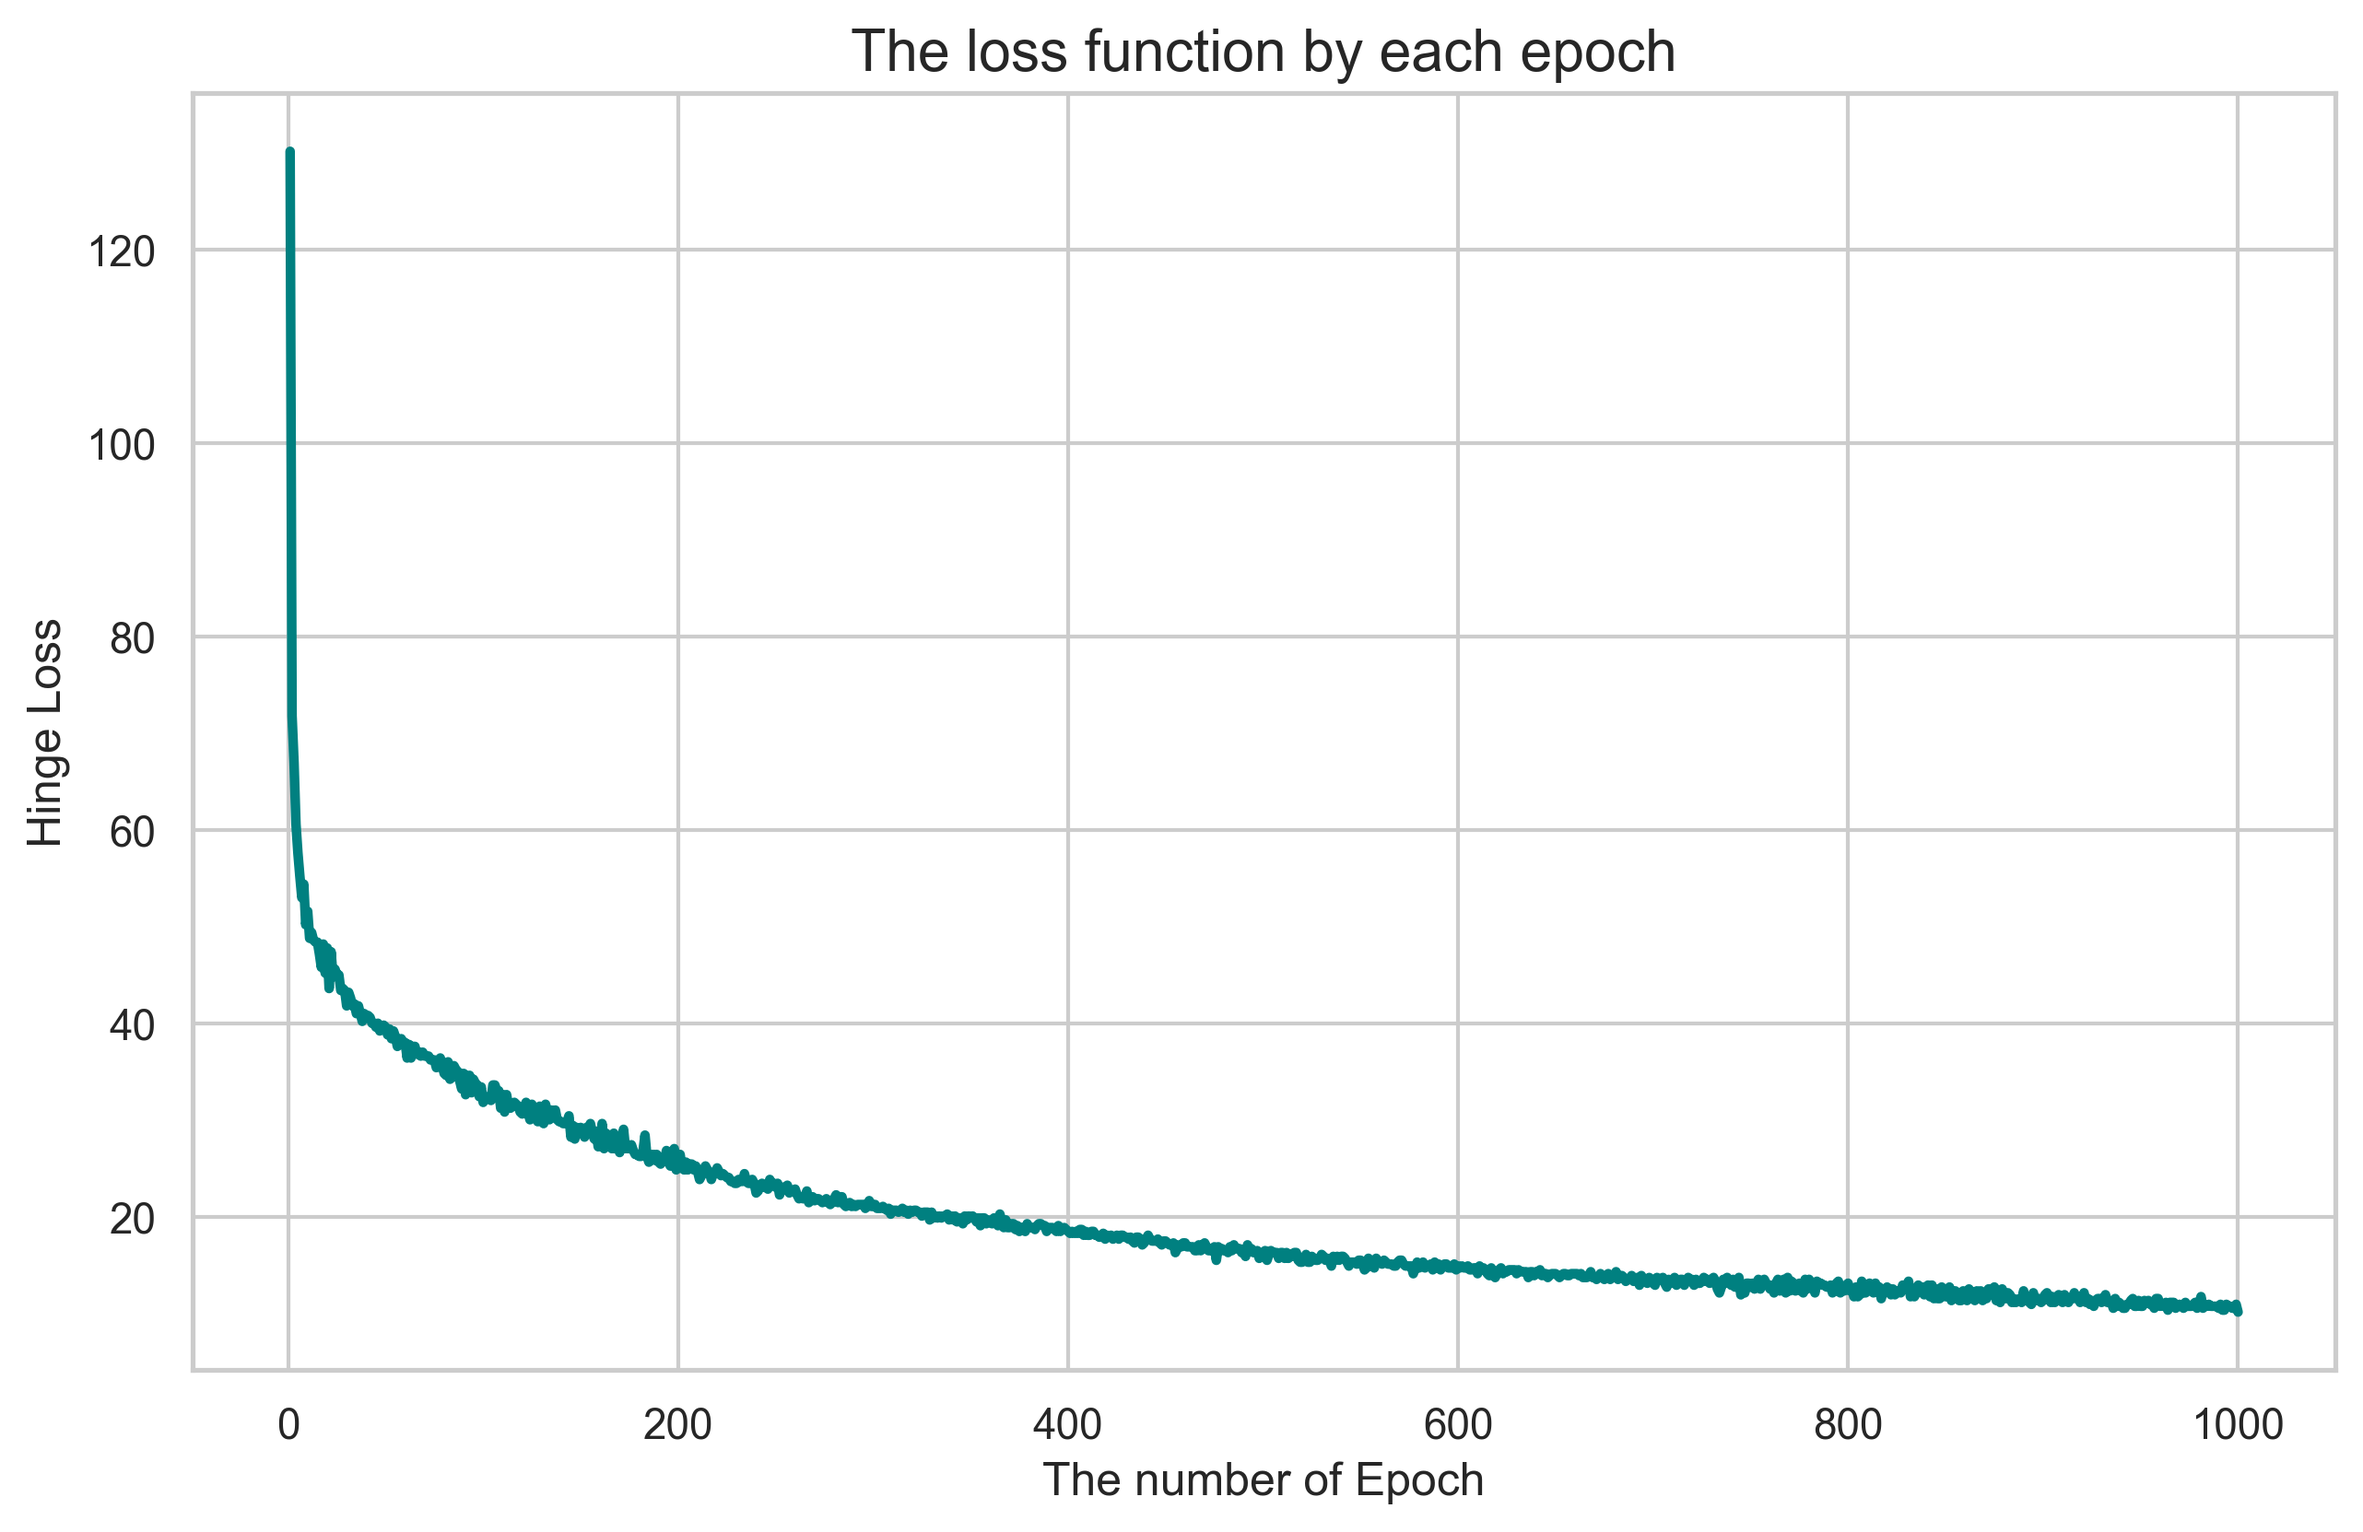
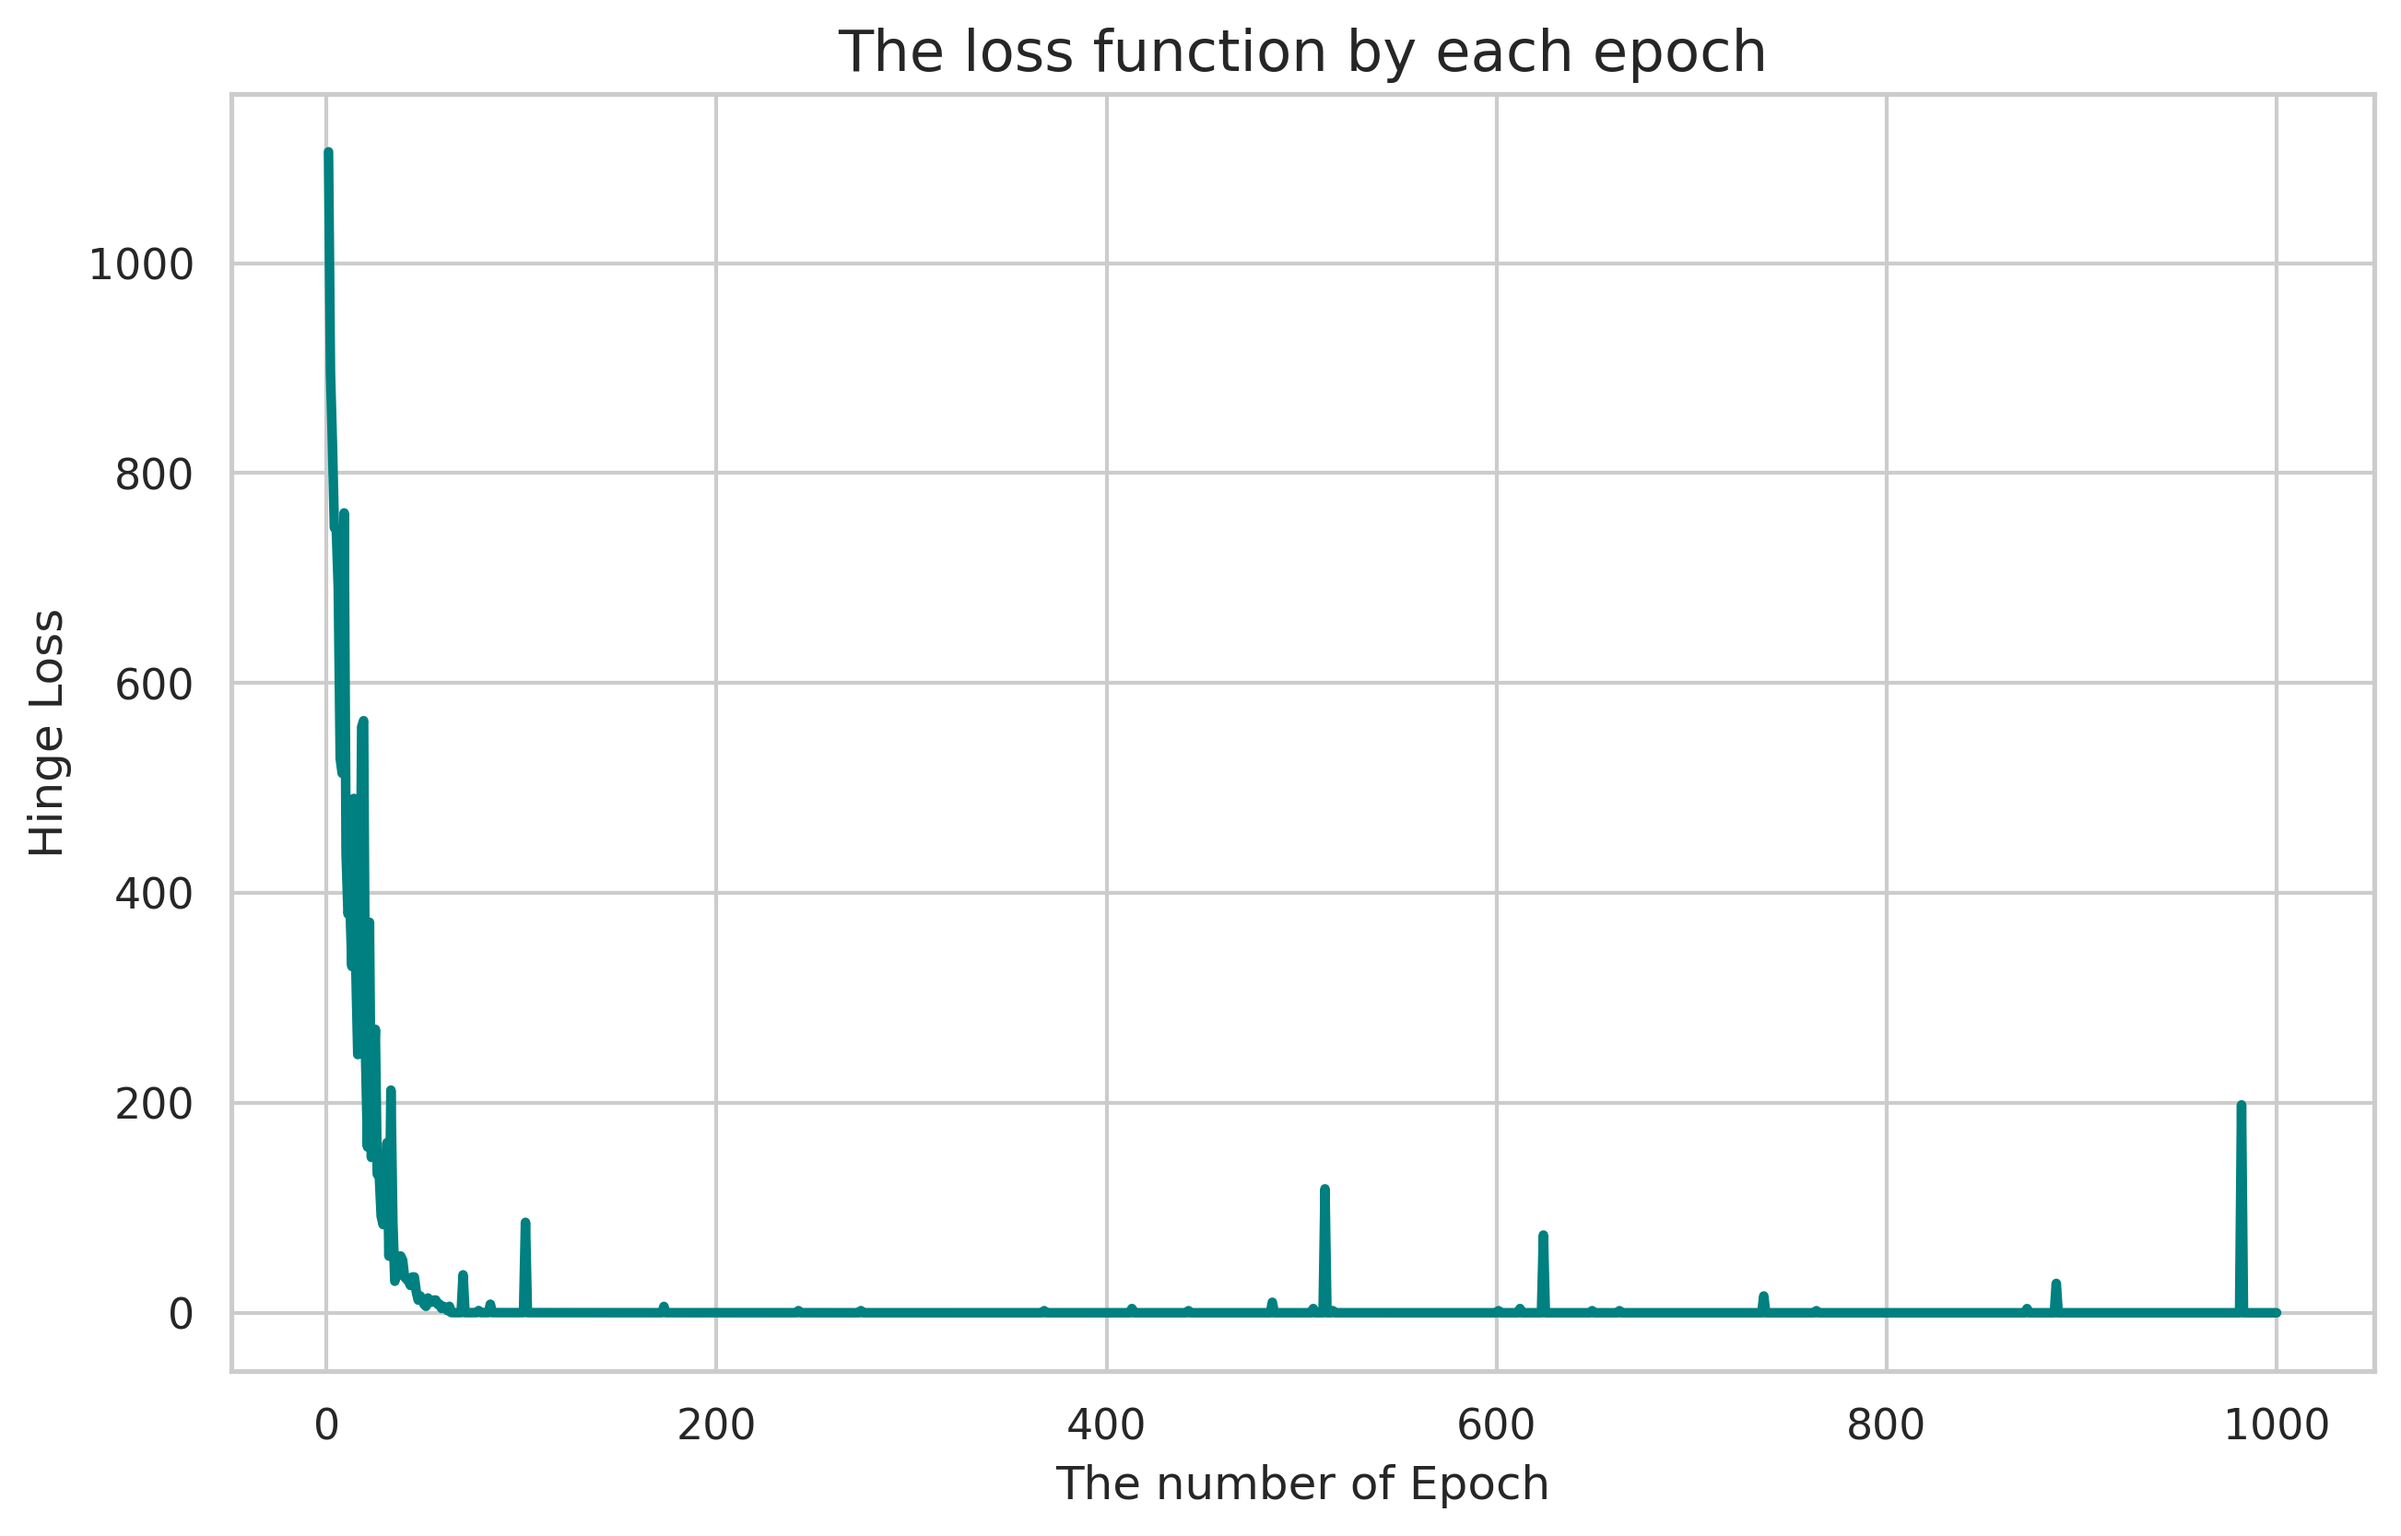
Update preprocessing, main and push assignment02 file

diff --git a/Lab03/model/assignment02.py b/Lab03/model/assignment02.py
@@ -1,0 +1,30 @@
+from preprocessing import collect, scaler
+from sklearn.svm import SVC
+from sklearn.metrics import precision_score, recall_score, f1_score, classification_report
+
+def main():
+    X_train, y_train = collect(split='train')
+    X_test, y_test = collect(split='test')
+
+    X_train, mean, std = scaler(X_train)
+    X_test = (X_test - mean)/std
+
+    # Model
+    model = SVC(kernel='linear', C=10e-2)
+    model.fit(X_train, y_train)
+
+    y_pred = model.predict(X_test)
+
+    precision = precision_score(y_test, y_pred, average='binary')
+    recall = recall_score(y_test, y_pred, average='binary')
+    f1 = f1_score(y_test, y_pred, average='binary')
+
+    print(f'F1 score: {f1}')
+    print(f'Precision score: {precision}')
+    print(f'Recall score: {recall}')
+
+    print("\nDetailed Report:")
+    print(classification_report(y_test, y_pred))
+
+if __name__ == '__main__':
+    main()

diff --git a/Lab03/model/preprocessing.py b/Lab03/model/preprocessing.py
@@ -5,8 +5,8 @@ import random
 from tqdm import tqdm
 
 def collect(split: str='train', BASE_DIR: str='../data/'):
-    normal = 'NORMAL'       # 1
-    pneu = 'PNEUMONIA'      #-1
+    normal = 'NORMAL'       # 0
+    pneu = 'PNEUMONIA'      # -1
     
     images = []
     labels = []
@@ -26,7 +26,6 @@ def collect(split: str='train', BASE_DIR: str='../data/'):
         labels.append(-1)
 
     X = np.stack(images, axis=0)
-    X = (X - X.mean()) / X.std()
     y = np.array(labels)
     
     data = list(zip(X, y))
@@ -36,3 +35,9 @@ def collect(split: str='train', BASE_DIR: str='../data/'):
     X = np.array(X)
     y = np.array(y)
     return X, y
+
+def scaler(X: np.ndarray):
+    mean = X.mean(axis=0)
+    std = X.std(axis=0)
+    X_scale = (X - mean)/std
+    return X_scale, mean, std

diff --git a/Lab03/model/main.py b/Lab03/model/main.py
@@ -1,5 +1,5 @@
 from tqdm import tqdm
-from preprocessing import collect
+from preprocessing import collect, scaler
 from model import SVM
 
 def main():
@@ -7,7 +7,10 @@ def main():
     X_train, y_train = collect('train')
     X_test, y_test = collect('test')
     
-    model = SVM(epochs=1000, lr=0.001, C=10e-2, batch_size=64)
+    X_train, mean, std = scaler(X_train)
+    X_test = (X_test - mean)/std
+
+    model = SVM(epochs=1000, lr=0.001, C=1, batch_size=32)
     model.fit(X_train, y_train)
     print(model.metric(X_test, y_test))
     model.loss()
